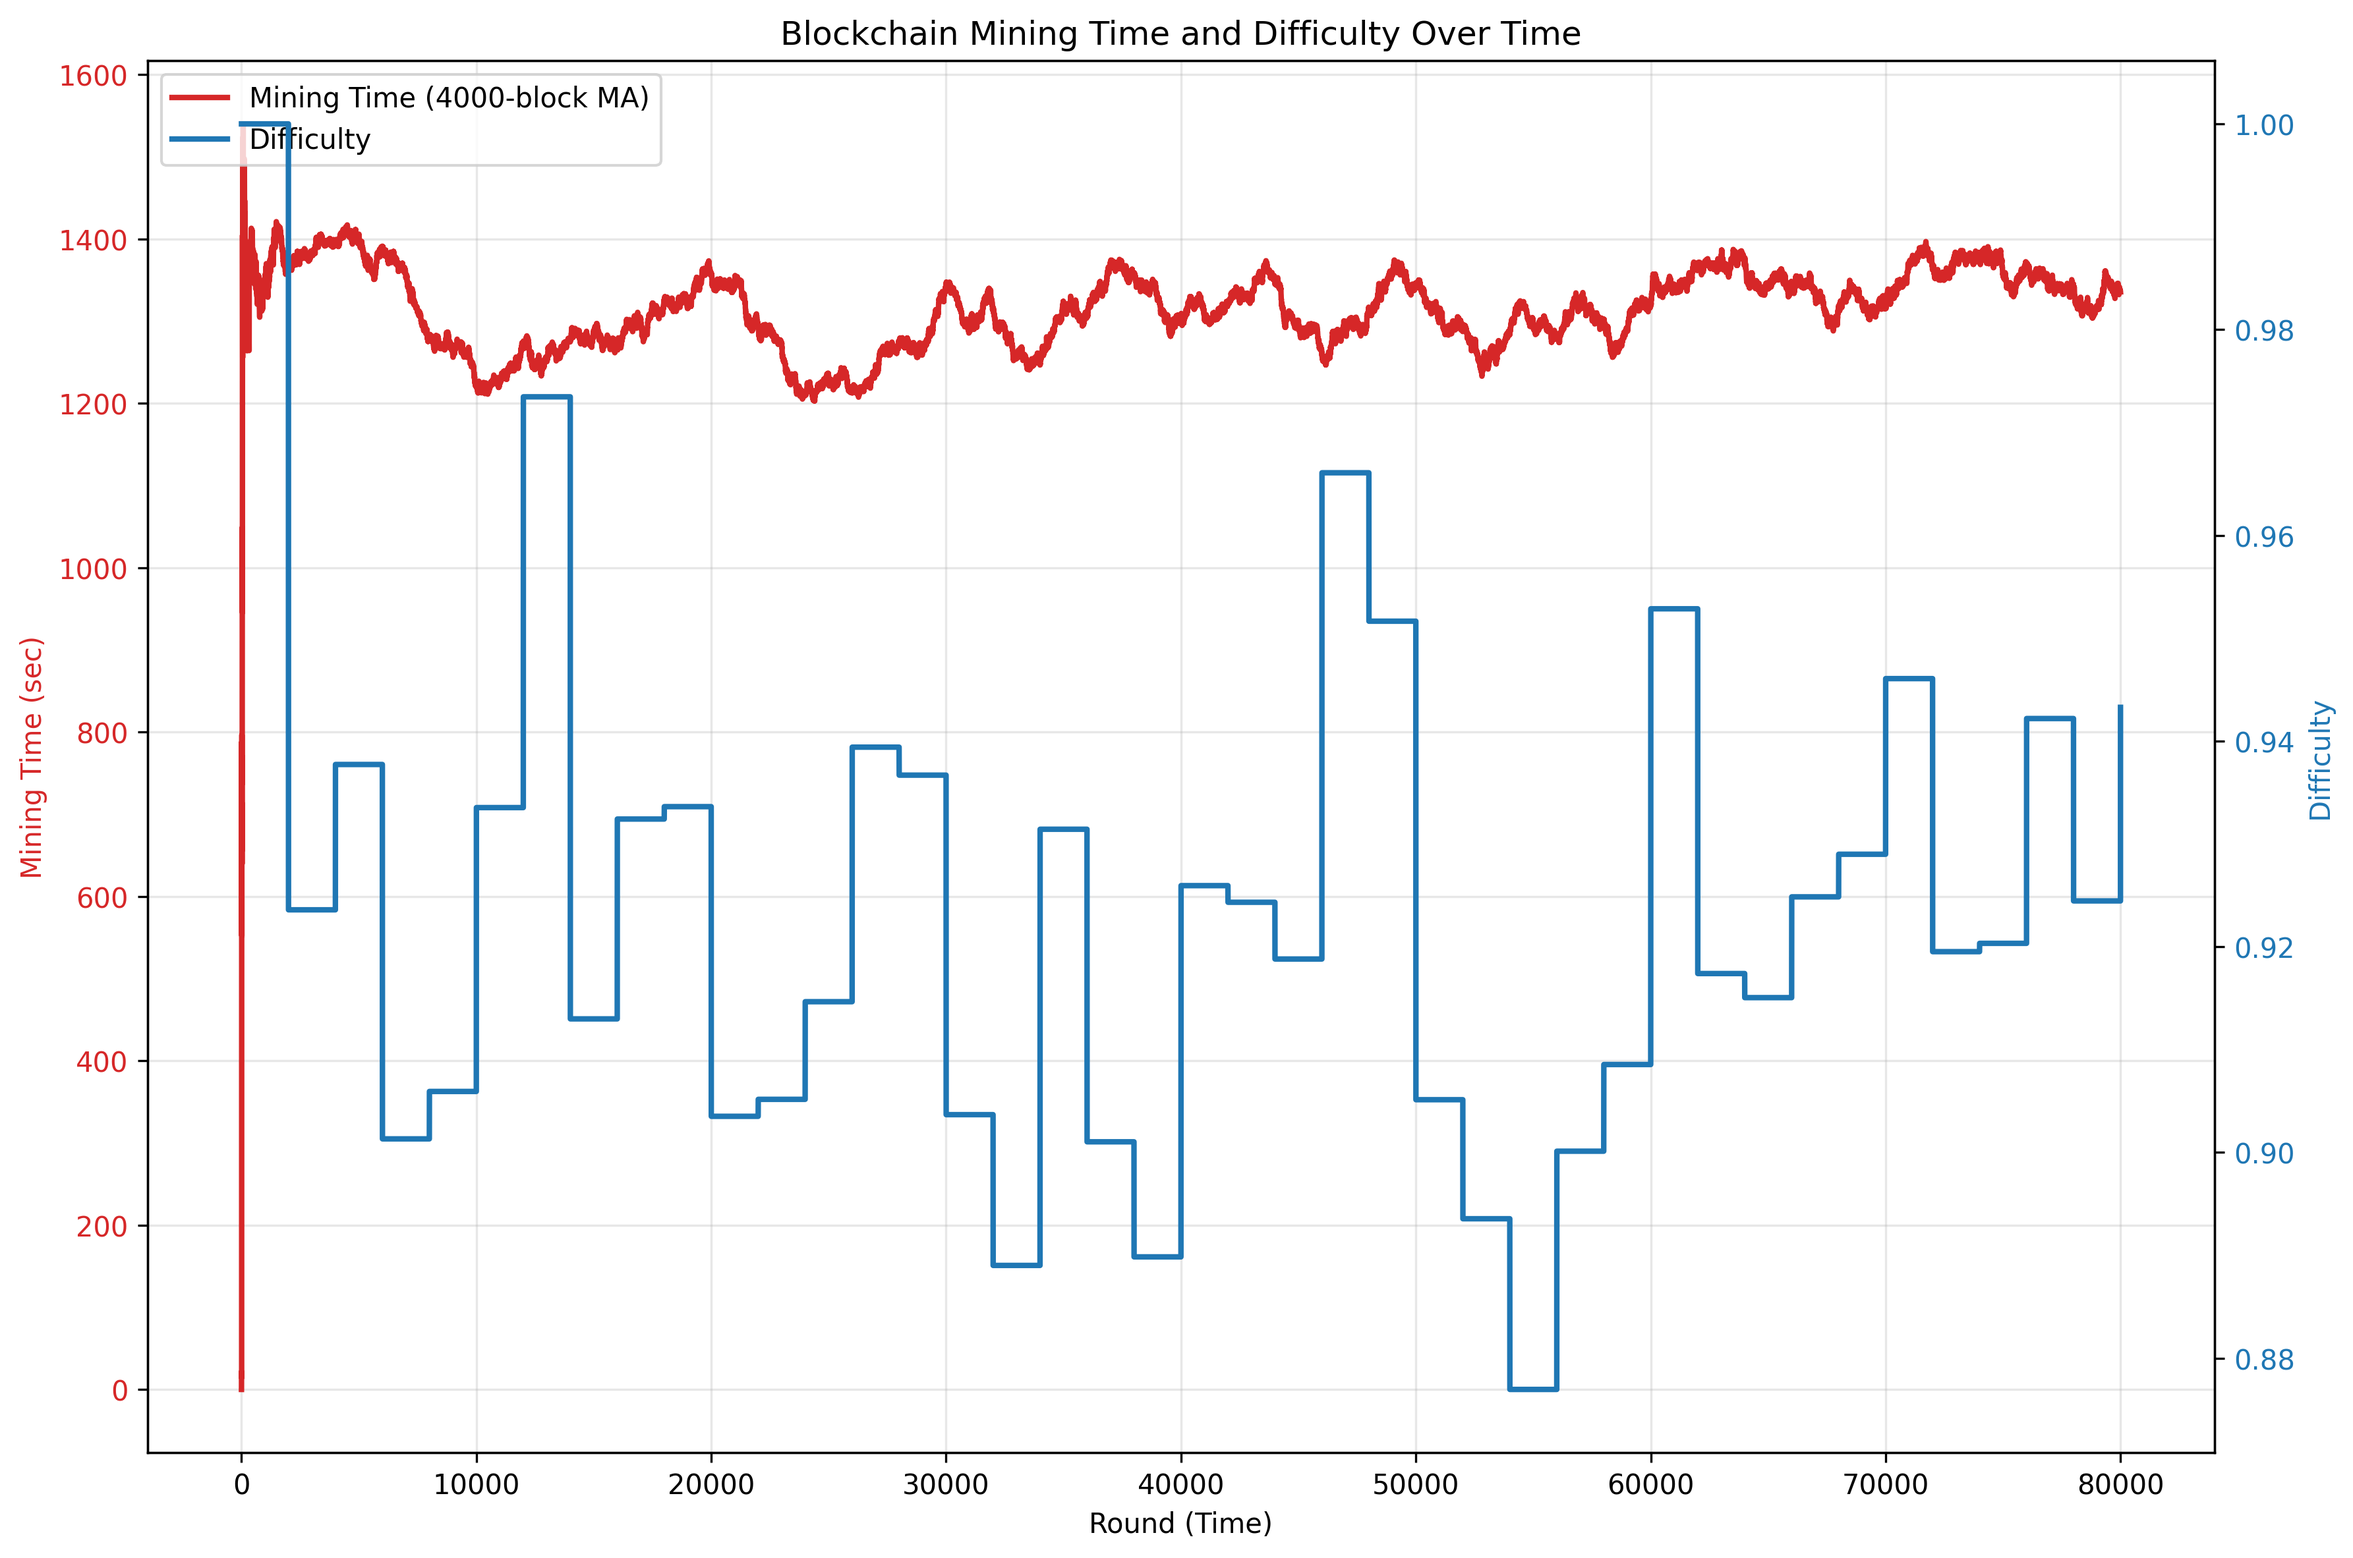
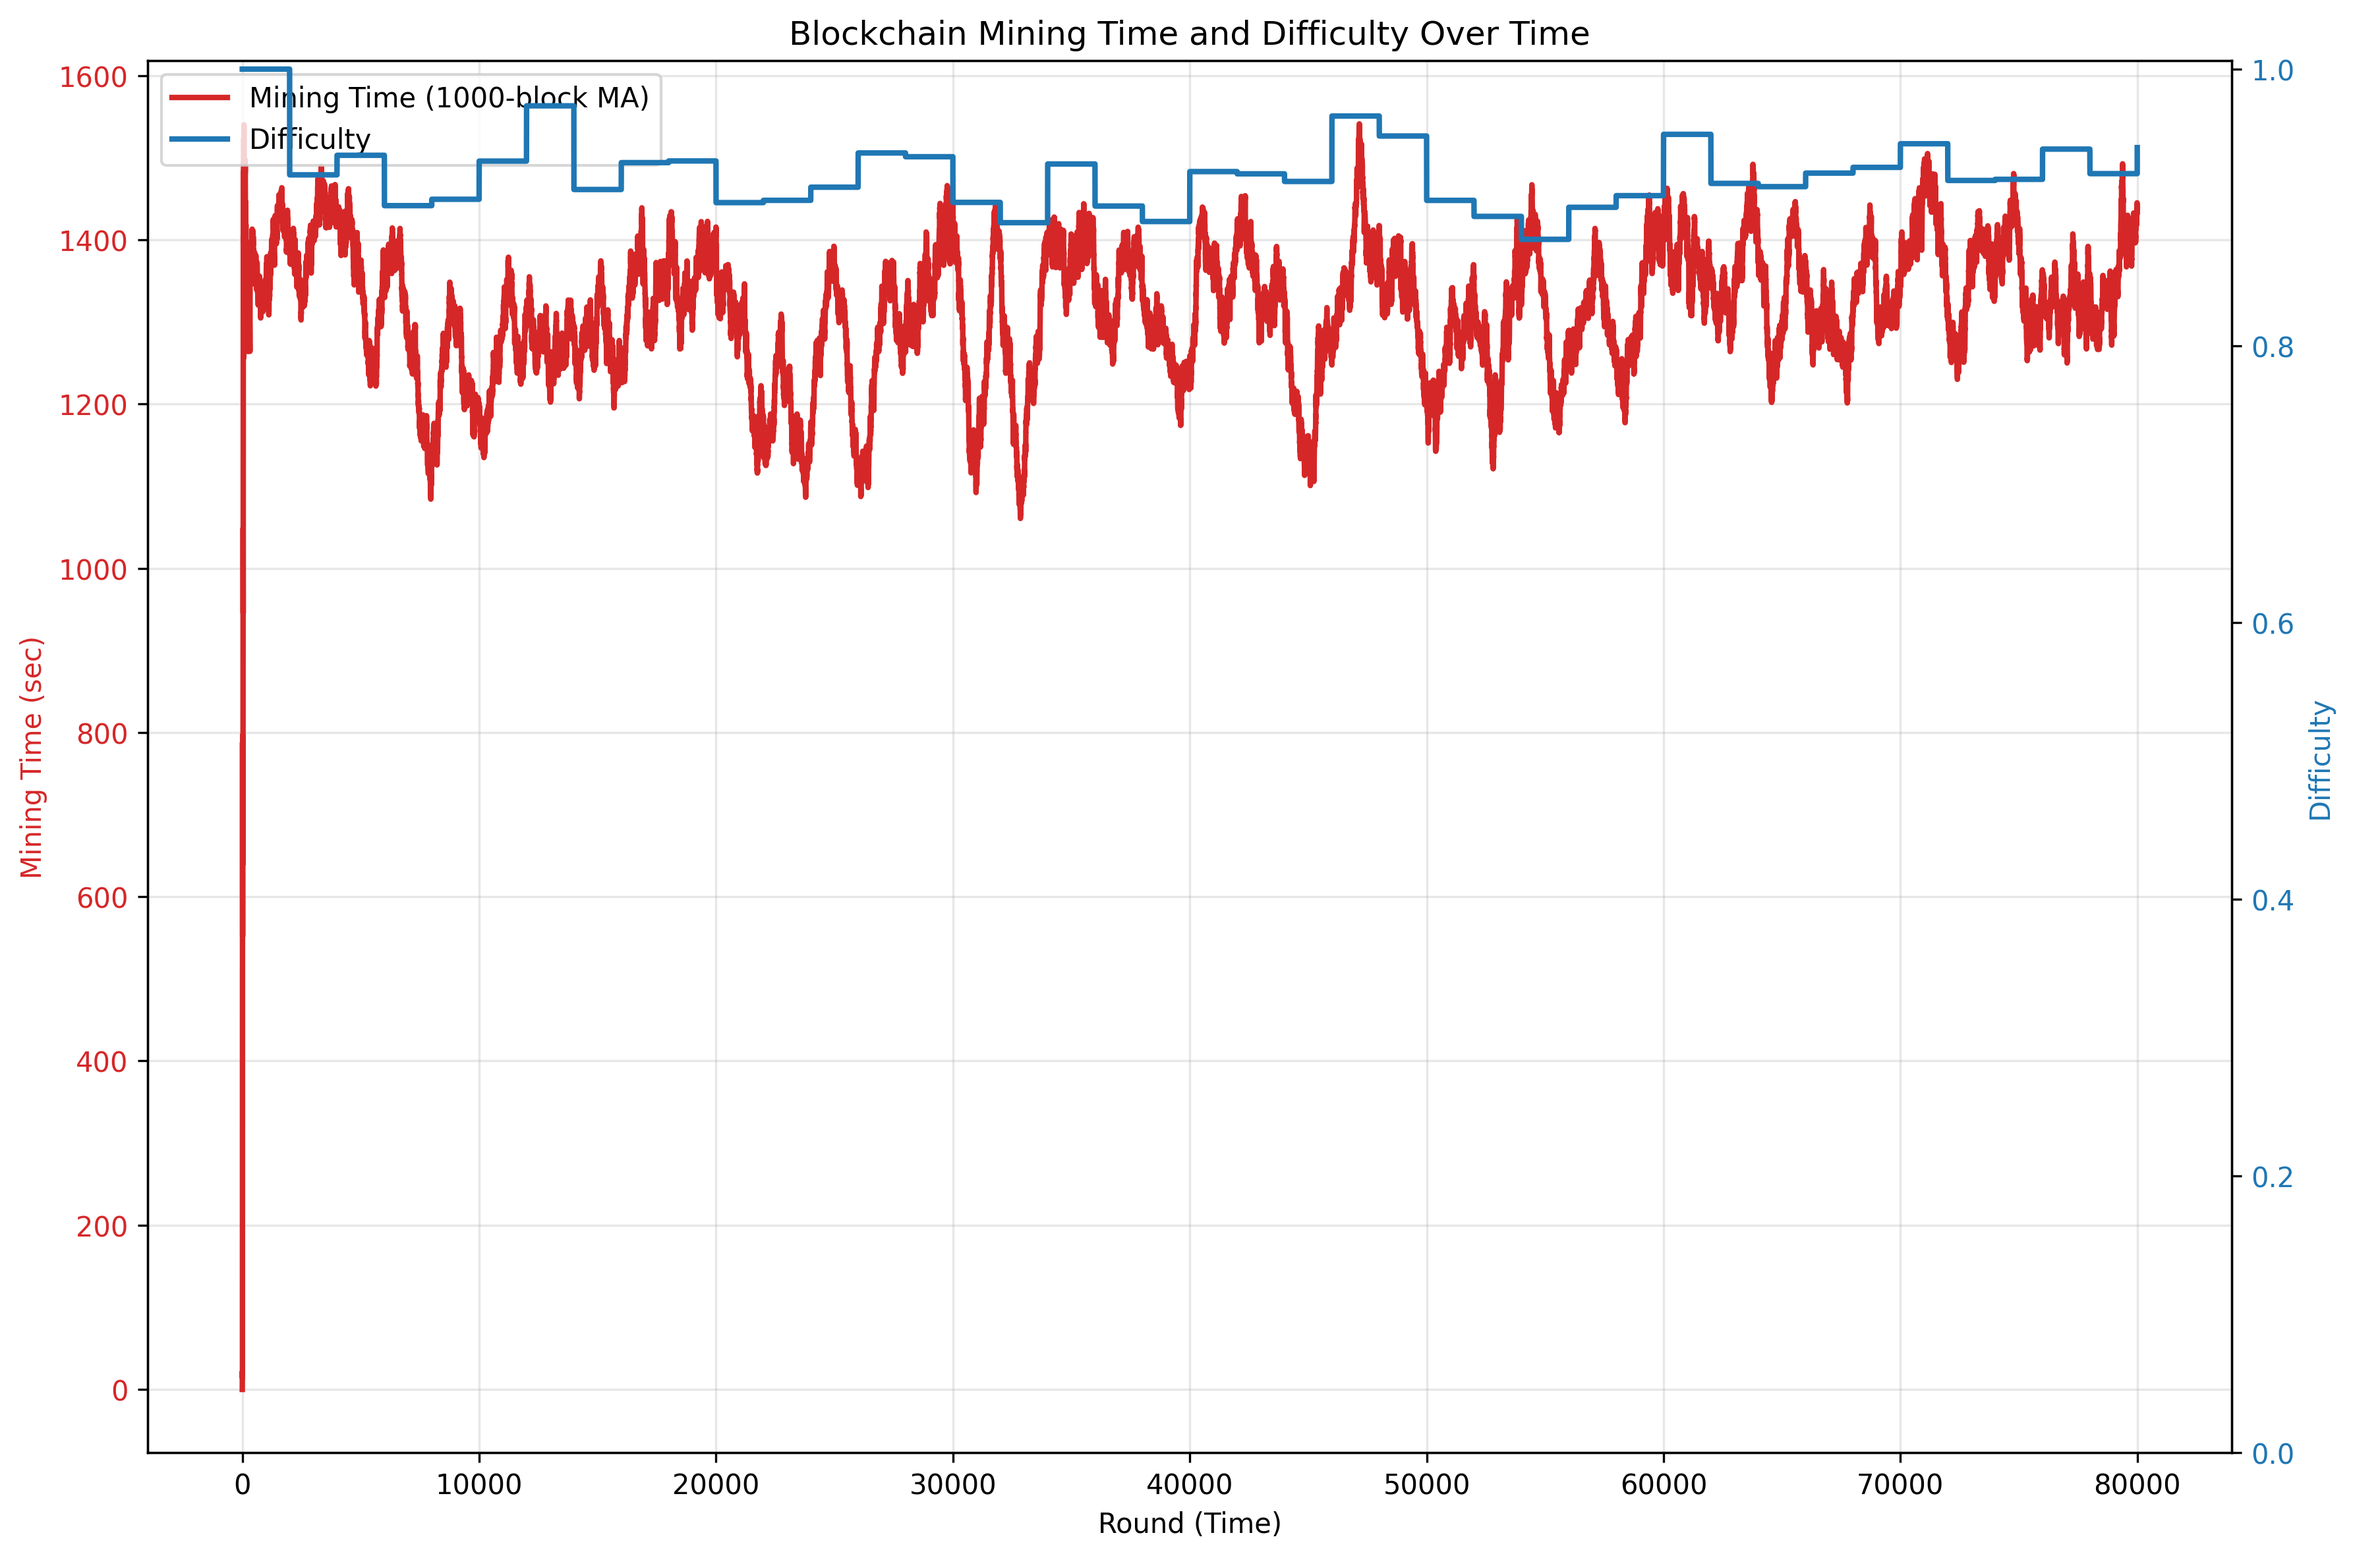
chore

diff --git a/experiment/plot-time.py b/experiment/plot-time.py
@@ -12,8 +12,8 @@ def main():
         "--window",
         "-w",
         type=int,
-        default=4000,
-        help="Moving average window size (default: 4000)",
+        default=1000,
+        help="Moving average window size (default: 1000)",
     )
     parser.add_argument(
         "--log-scale",
@@ -91,6 +91,7 @@ def main():
         df["round"], df["difficulty"], color=color2, linewidth=2, label="Difficulty"
     )
     ax2.tick_params(axis="y", labelcolor=color2)
+    ax2.set_ylim(bottom=0.0)
 
     # Title and grid
     plt.title("Blockchain Mining Time and Difficulty Over Time")

diff --git a/README.md b/README.md
@@ -21,3 +21,9 @@ uv run plot-difficulty.py --protocol=bitcoin
 uv run plot-time.py data/bitcoin-0.1.csv
 uv run plot-time.py data/ethereum-0.1.csv
 ```
+
+<!--
+uv run main.py --protocol=ethereum
+uv run plot-difficulty.py --protocol=ethereum
+uv run plot-time.py data/ethereum-0.1.csv
+-->
